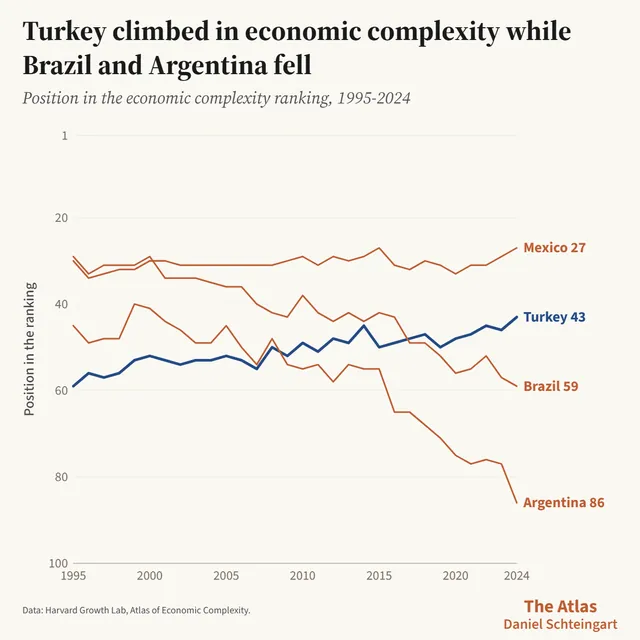
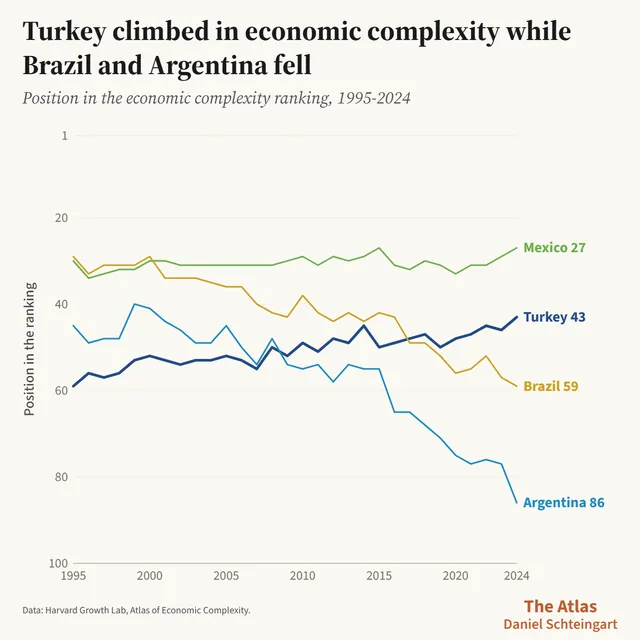
N°8 Turquía: cada país latinoamericano con su color en los gráficos de líneas
Con todos los países latinoamericanos en terracota, los gráficos de I+D,
complejidad y empleo agrícola quedaban todos marrones. Ahora solo los
agregados de la región (América Latina y el Caribe, y la mediana de seis
del gráfico de inflación) van en terracota; Argentina, Brasil, México,
Chile y Colombia tienen un color fijo en todo el número y el resto toma
uno libre de la paleta. Se regeneran las miniaturas de los tres gráficos.

diff --git a/08-turquia/tur-motor.js b/08-turquia/tur-motor.js
@@ -52,11 +52,14 @@ const BR_C = {
 // mismo país tenga el mismo color en todos los gráficos del número.
 const BR_PALETTE = ['#234B85', '#2D6A3D', '#C9A227', '#6B3D8B', '#2C8484', '#7A2A3F',
                     '#1F8AC0', '#6CB04D', '#E07A23', '#B5639E', '#8A5A35', '#5A7A4F'];
-// N°8: Turquía, la protagonista, toma el primer color de la paleta; Polonia y Rumania, los comparadores de la
-// vista de fábrica, el verde y el ciruela; Mundo, el carbón de la casa. América Latina y el Caribe y sus países
-// van siempre en terracota (tur_color, al final). El resto se reparte de la paleta según la selección.
+// N°8: Turquía, la protagonista, toma el primer color de la paleta; Europa oriental, Polonia y Rumania, el verde,
+// el petróleo y el ciruela; Mundo, el carbón de la casa. Los agregados latinoamericanos (América Latina y el Caribe,
+// y la mediana de seis del gráfico de inflación) van en terracota. Los países latinoamericanos tienen cada uno su
+// color, el mismo en todos los gráficos del número (pedido de Daniel del 23-11-2026: si van todos en terracota, el
+// interactivo queda todo marrón). El resto se reparte de la paleta según la selección.
 const BR_FIXED = {
-  TUR: '#234B85', EUE: '#2D6A3D', POL: '#2C8484', ROU: '#6B3D8B', WLD: '#33312C', LCN: '#BE5D32', LA6: '#BE5D32'
+  TUR: '#234B85', EUE: '#2D6A3D', POL: '#2C8484', ROU: '#6B3D8B', WLD: '#33312C', LCN: '#BE5D32', LA6: '#BE5D32',
+  ARG: '#1F8AC0', BRA: '#C9A227', MEX: '#6CB04D', CHL: '#7A2A3F', COL: '#B5639E'
 };
 // Nombres de agregados y entidades que no están en lib/country-names.js.
 const BR_NAMES = {
@@ -97,16 +100,20 @@ function br_measure(text, fs, w) {
   br_measure._c.font = (w || 400) + ' ' + fs + 'px "Source Sans 3", system-ui, sans-serif';
   return br_measure._c.measureText(String(text)).width;
 }
-// Color estable por clave: fijo si el país lo tiene; si no, el primer color de
-// la paleta que no use otra serie de la selección (se guarda en el state).
+// Color estable por clave: fijo si el país lo tiene; si no, el primer color de la paleta que no use otra serie de
+// la selección (se guarda en el state). N°8: con st.sel solo se reservan los colores fijos de los países elegidos
+// (hay muchos fijos y, si se reservaran todos, quedarían pocos libres); si después se suma un país cuyo color fijo
+// ya tenía otro, ese otro cambia de color.
 function br_color(st, key) {
   if (BR_FIXED[key]) return BR_FIXED[key];
   if (!st._colors) st._colors = {};
-  if (st._colors[key] == null) {
-    const used = new Set(Object.values(st._colors));
-    Object.keys(BR_FIXED).forEach(k => used.add(BR_FIXED[k]));
+  const sel = Array.isArray(st.sel) ? st.sel : null;
+  const used = new Set();
+  if (sel) sel.forEach(k => { if (k !== key && (BR_FIXED[k] || st._colors[k])) used.add(BR_FIXED[k] || st._colors[k]); });
+  else { Object.values(st._colors).forEach(c => used.add(c)); Object.keys(BR_FIXED).forEach(k => used.add(BR_FIXED[k])); }
+  if (st._colors[key] == null || (sel && used.has(st._colors[key]))) {
     let c = BR_PALETTE.find(p => !used.has(p));
-    if (!c) c = BR_PALETTE[Object.keys(st._colors).length % BR_PALETTE.length];
+    if (!c) c = BR_PALETTE[Math.max(0, sel ? sel.indexOf(key) : Object.keys(st._colors).length) % BR_PALETTE.length];
     st._colors[key] = c;
   }
   return st._colors[key];
@@ -1038,31 +1045,16 @@ function rel_layout(id) {
 //   marks?: { CLAVE: [[año, 'top' | 'right'], ...] } valores rotulados cuando esa serie es la única a la vista,
 //   marksWith?: [claves que pueden acompañar a esa serie sin apagar los rótulos], aggTag? (todos los agregados),
 //   aggTags?: { CLAVE: clave i18n del renglón gris } (por agregado), csvName?: { CLAVE: { es, en } },
-//   latamTones?: true = cada latinoamericano en un estilo distinto de la familia terracota (tur_style),
 //   extra?: { data: () => [{ k, y, m, v }], label(e) => texto de la etiqueta, tt(e) => html del tooltip,
 //             csvMeasure: { col: { es, en }, serie: { es, en }, extra(e): { es, en } } }: puntos sueltos que NO son de la serie
 //             (el último dato mensual de Turquía en chart-inflacion): punto hueco unido al último dato por una línea de
 //             puntos, con su etiqueta; se ven si su país está elegido y el período llega al final de la serie,
 //   pngSource?(sel, extraVisible) => nota del PNG según la selección, markFmt?(v), phKey?: clave del placeholder del buscador, csv: { col: { es, en }, file: { es, en }, dec }
 // }
-const TUR_LATAM = '#BE5D32';   // América Latina y el Caribe y sus países: siempre terracota (regla de la casa)
-
-function tur_isLatam(D, k) { return k === 'LCN' || k === 'LA6' || !!(D.reg && D.reg[k] === 'LCN'); }
-function tur_color(st, D, k) { return tur_isLatam(D, k) ? TUR_LATAM : br_color(st, k); }
-// N°8 (chart-iyd): con cfg.latamTones, cada latinoamericano de la selección toma un estilo distinto de la familia
-// terracota (la regla de la casa se respeta: todos son terracota), en el orden en que están elegidos: terracota, terracota
-// oscuro, terracota claro (etiqueta en un tono más oscuro, para que se lea sobre crema) y los mismos tres punteados.
-// En chart-creencia (N°7) y en chart-complejidad los latinoamericanos van todos en el mismo terracota.
-const TUR_LATAM_TONES = [
-  { color: '#BE5D32' }, { color: '#7A3417' }, { color: '#D89968', label: '#A35E2E' },
-  { color: '#BE5D32', dash: true }, { color: '#7A3417', dash: true }, { color: '#D89968', label: '#A35E2E', dash: true }
-];
-function tur_style(cfg, st, D, k) {
-  if (!tur_isLatam(D, k)) return { color: br_color(st, k) };
-  if (!cfg.latamTones) return { color: TUR_LATAM };
-  const i = st.sel.filter(x => tur_isLatam(D, x)).indexOf(k);
-  return TUR_LATAM_TONES[Math.max(0, i) % TUR_LATAM_TONES.length];
-}
+// Color de cada serie: los agregados latinoamericanos (LCN y LA6) en terracota por BR_FIXED; los países, latinoamericanos
+// o no, con su color fijo o uno libre de la paleta (br_color). Hasta el 23-11-2026 los países latinoamericanos iban todos
+// en terracota (en chart-iyd, en tonos de esa familia); el PNG de I+D que está en la nota se exportó así.
+function tur_style(cfg, st, D, k) { return { color: br_color(st, k) }; }
 // Etiqueta final en hasta tres renglones: el nombre en uno o dos (br_wrap2) y el valor al lado si entra, o debajo.
 function tur_wrap3(name, value, fs, w, capW) {
   const fits = (tx) => br_measure(tx, fs, w) <= capW;

diff --git a/08-turquia/chart-iyd.js b/08-turquia/chart-iyd.js
@@ -1,12 +1,11 @@
 // Gasto en investigación y desarrollo como porcentaje del PIB (Banco Mundial, GB.XPD.RSDV.GD.ZS, con datos del Instituto
 // de Estadística de la UNESCO), del primer al último año con dato (1996-2024). Vista de fábrica: Turquía, Argentina,
 // Brasil, Chile y México. Adapter de turSeries (tur-motor.js), el mismo de chart-pib, chart-inflacion y chart-agro.
-// Los cuatro latinoamericanos son terracota (regla de la casa) en estilos distintos de la misma familia (latamTones:
-// terracota, terracota oscuro, terracota claro y terracota punteado), para que Chile y México, que terminan cerca, no
-// se confundan. Los años sin dato cortan la línea (no se interpola) y el crosshair solo muestra años medidos.
+// Cada país tiene su color fijo del número (BR_FIXED en tur-motor.js). Los años sin dato cortan la línea (no se
+// interpola) y el crosshair solo muestra años medidos.
 // Datos: TUR_IYD (data-iyd.js). Vista compartible: ?paises=TUR~KOR~BRA&periodo=2000~2023 (- = selección vacía).
 const CIYD = turSeries({
-  id: 'iyd', pre: 'ciyd', data: () => TUR_IYD, def: ['TUR', 'ARG', 'BRA', 'CHL', 'MEX'], main: 'TUR', latamTones: true,
+  id: 'iyd', pre: 'ciyd', data: () => TUR_IYD, def: ['TUR', 'ARG', 'BRA', 'CHL', 'MEX'], main: 'TUR',
   yFmt: (v) => br_fmt(v, 1) + '%',
   endFmt: (v) => br_fmt(v, 2) + '%',
   ttFmt: (v) => br_fmt(v, 2) + '%',

diff --git a/08-turquia/chart-iyd.html b/08-turquia/chart-iyd.html
@@ -62,8 +62,8 @@
 <script src="../lib/country-names.js?v=74"></script>
 <script src="./data-iyd.js?v=11"></script>
 <script src="../lib/editor.js?v=90"></script>
-<script src="./tur-motor.js?v=14"></script>
-<script src="./chart-iyd.js?v=11"></script>
+<script src="./tur-motor.js?v=15"></script>
+<script src="./chart-iyd.js?v=12"></script>
 <script src="../lib/png-export.js?v=88"></script>
 <script>
   applyI18n();

diff --git a/08-turquia/chart-complejidad.html b/08-turquia/chart-complejidad.html
@@ -62,7 +62,7 @@
 <script src="../lib/country-names.js?v=74"></script>
 <script src="./data-complejidad.js?v=11"></script>
 <script src="../lib/editor.js?v=90"></script>
-<script src="./tur-motor.js?v=14"></script>
+<script src="./tur-motor.js?v=15"></script>
 <script src="./chart-complejidad.js?v=11"></script>
 <script src="../lib/png-export.js?v=88"></script>
 <script>

diff --git a/08-turquia/chart-inflacion.html b/08-turquia/chart-inflacion.html
@@ -62,7 +62,7 @@
 <script src="../lib/country-names.js?v=74"></script>
 <script src="./data-inflacion.js?v=12"></script>
 <script src="../lib/editor.js?v=90"></script>
-<script src="./tur-motor.js?v=14"></script>
+<script src="./tur-motor.js?v=15"></script>
 <script src="./chart-inflacion.js?v=12"></script>
 <script src="../lib/png-export.js?v=88"></script>
 <script>

diff --git a/08-turquia/chart-convergencia.html b/08-turquia/chart-convergencia.html
@@ -62,7 +62,7 @@
 <script src="../lib/country-names.js?v=74"></script>
 <script src="./data-pib.js?v=11"></script>
 <script src="../lib/editor.js?v=90"></script>
-<script src="./tur-motor.js?v=14"></script>
+<script src="./tur-motor.js?v=15"></script>
 <script src="./chart-convergencia.js?v=11"></script>
 <script src="../lib/png-export.js?v=88"></script>
 <script>

diff --git a/08-turquia/chart-canasta.html b/08-turquia/chart-canasta.html
@@ -61,7 +61,7 @@
 <script src="../lib/country-names.js?v=74"></script>
 <script src="./data-canasta.js?v=11"></script>
 <script src="../lib/editor.js?v=90"></script>
-<script src="./tur-motor.js?v=14"></script>
+<script src="./tur-motor.js?v=15"></script>
 <script src="./chart-canasta.js?v=11"></script>
 <script src="../lib/png-export.js?v=88"></script>
 <script>

diff --git a/08-turquia/chart-agro.html b/08-turquia/chart-agro.html
@@ -62,7 +62,7 @@
 <script src="../lib/country-names.js?v=74"></script>
 <script src="./data-agro.js?v=11"></script>
 <script src="../lib/editor.js?v=90"></script>
-<script src="./tur-motor.js?v=14"></script>
+<script src="./tur-motor.js?v=15"></script>
 <script src="./chart-agro.js?v=11"></script>
 <script src="../lib/png-export.js?v=88"></script>
 <script>

diff --git a/08-turquia/chart-lall.html b/08-turquia/chart-lall.html
@@ -62,7 +62,7 @@
 <script src="../lib/country-names.js?v=74"></script>
 <script src="./data-lall.js?v=11"></script>
 <script src="../lib/editor.js?v=90"></script>
-<script src="./tur-motor.js?v=14"></script>
+<script src="./tur-motor.js?v=15"></script>
 <script src="./chart-lall.js?v=11"></script>
 <script src="../lib/png-export.js?v=88"></script>
 <script>

diff --git a/08-turquia/chart-pib.html b/08-turquia/chart-pib.html
@@ -62,7 +62,7 @@
 <script src="../lib/country-names.js?v=74"></script>
 <script src="./data-pib.js?v=11"></script>
 <script src="../lib/editor.js?v=90"></script>
-<script src="./tur-motor.js?v=14"></script>
+<script src="./tur-motor.js?v=15"></script>
 <script src="./chart-pib.js?v=11"></script>
 <script src="../lib/png-export.js?v=88"></script>
 <script>
